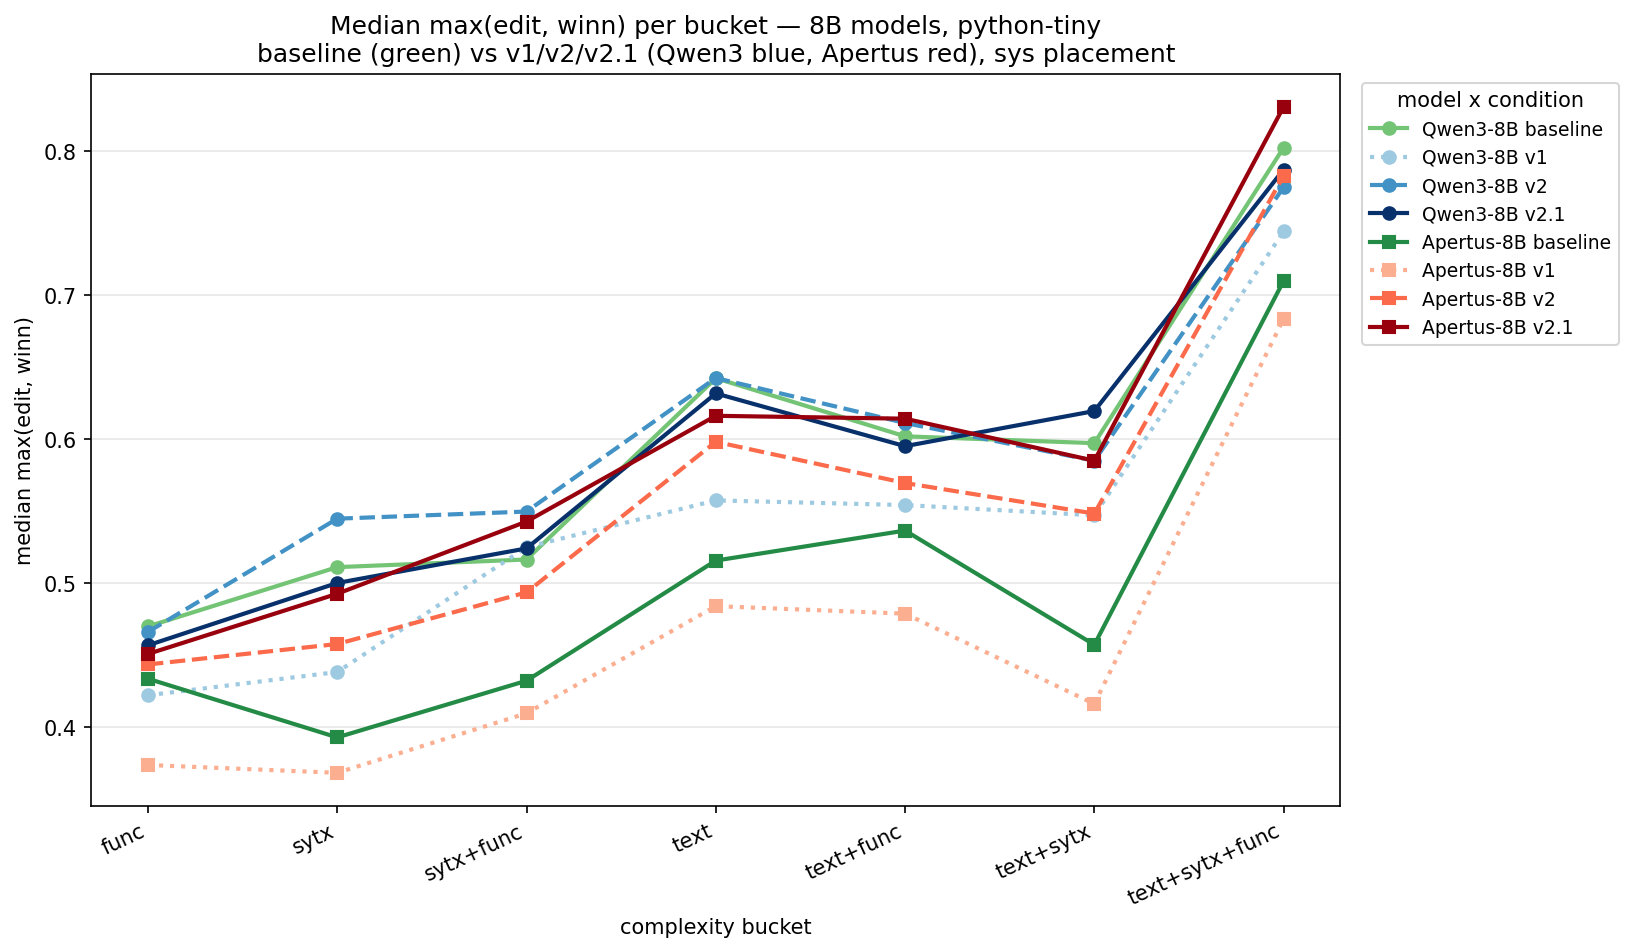
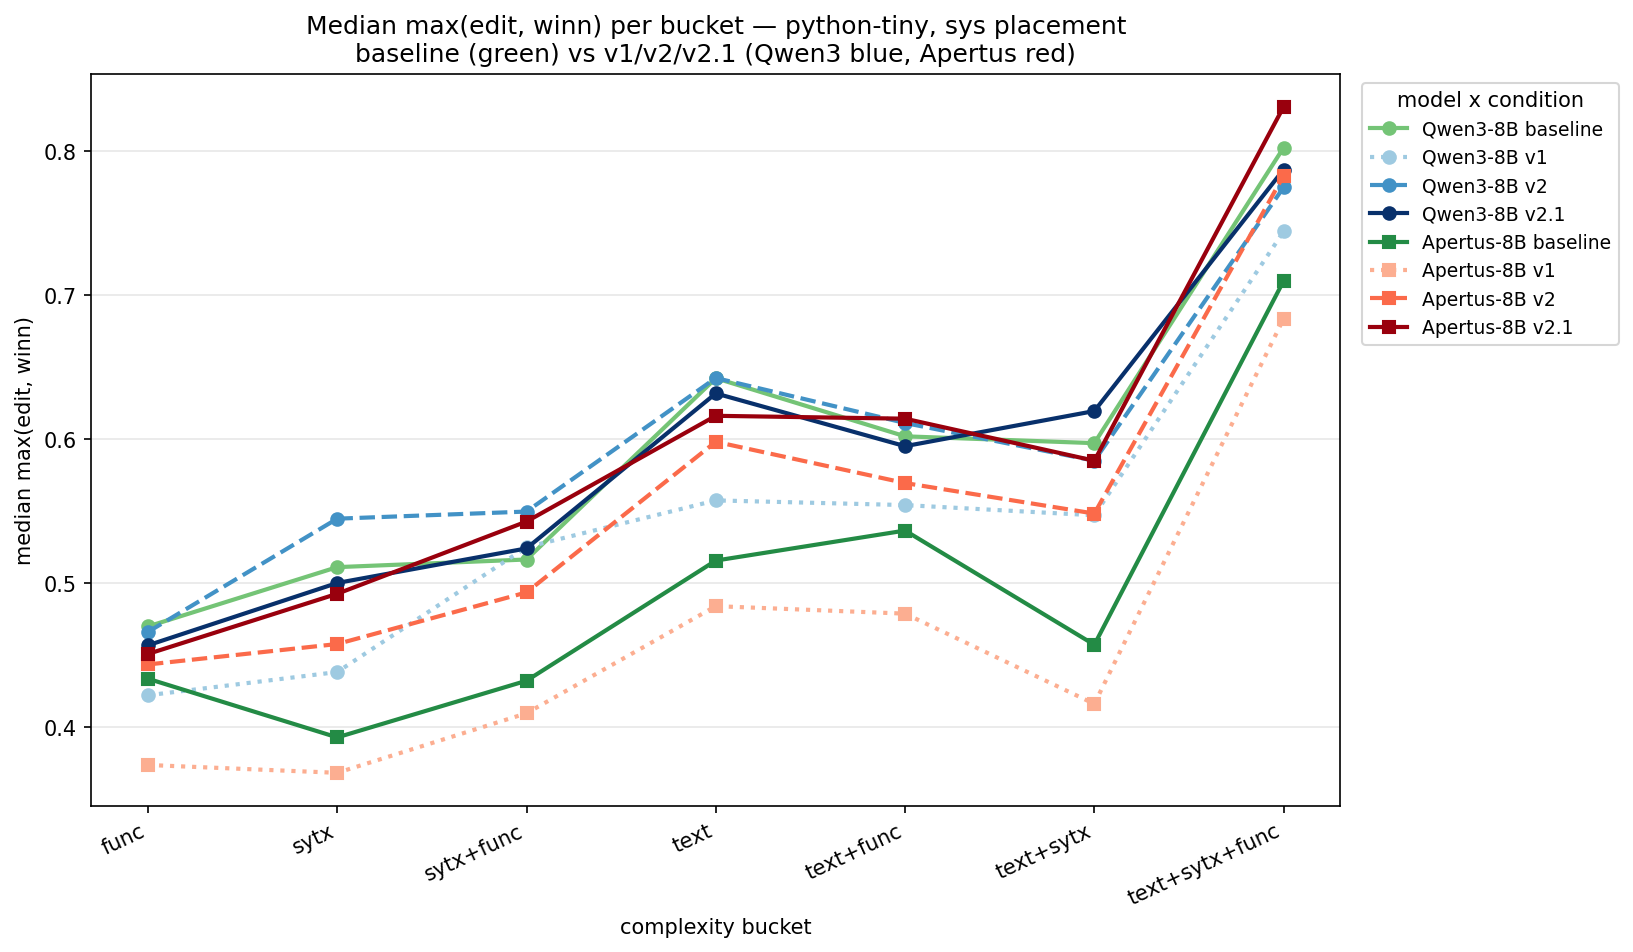
feat(figures): per-model and v2.1-only per-bucket median charts (refs #77)

Changed region(s): [[0.1562, 0.0, 0.7183, 0.0914]]

diff --git a/scripts/plot_median_trends.py b/scripts/plot_median_trends.py
@@ -118,14 +118,18 @@ def build_medians(key: str, placement: str):
 # ── plots ────────────────────────────────────────────────────────────────────
 
 
-def plot_by_bucket(medians, key, title_metric, out_path):
-    """x-axis = buckets; one line per (model x condition) = 8 lines.
+def plot_by_bucket(medians, key, title_metric, out_path, selectors=None,
+                   subtitle="baseline (green) vs v1/v2/v2.1 (Qwen3 blue, Apertus red)"):
+    """x-axis = buckets; one line per (model, condition) in `selectors`.
     Qwen3 = blue shades, Apertus = red shades, baselines = green; line-style
-    encodes version as well."""
+    encodes version as well. `selectors` defaults to all 8 (model x condition)."""
     QWEN_SHADE = {"v1": "#9ecae1", "v2": "#4292c6", "v2.1": "#08306b"}
     APER_SHADE = {"v1": "#fcae91", "v2": "#fb6a4a", "v2.1": "#99000d"}
     BASE_GREEN = {"qwen3": "#74c476", "apertus": "#238b45"}
     LS = {"baseline": "-", "v1": ":", "v2": "--", "v2.1": "-"}
+
+    if selectors is None:
+        selectors = [(m, c) for m in MODEL_COLOR for c in CONDITIONS]
 
     def color(model, cond):
         if cond == "baseline":
@@ -134,18 +138,16 @@ def plot_by_bucket(medians, key, title_metric, out_path):
 
     fig, ax = plt.subplots(figsize=(11, 6.5))
     x = range(len(BUCKETS))
-    for model in MODEL_COLOR:           # qwen3, apertus
-        for cond in CONDITIONS:         # baseline, v1, v2, v2.1
-            ys = [medians[model][cond]["bucket"][b] for b in BUCKETS]
-            ax.plot(x, ys, linestyle=LS[cond], color=color(model, cond),
-                    marker=MODEL_MARKER[model], markersize=6, linewidth=2,
-                    label=f"{MODEL_LABEL[model]} {cond}")
+    for model, cond in selectors:
+        ys = [medians[model][cond]["bucket"][b] for b in BUCKETS]
+        ax.plot(x, ys, linestyle=LS[cond], color=color(model, cond),
+                marker=MODEL_MARKER[model], markersize=6, linewidth=2,
+                label=f"{MODEL_LABEL[model]} {cond}")
     ax.set_xticks(list(x))
     ax.set_xticklabels(BUCKETS, rotation=25, ha="right")
     ax.set_xlabel("complexity bucket")
     ax.set_ylabel(f"median {title_metric}")
-    ax.set_title(f"Median {title_metric} per bucket — 8B models, python-tiny\n"
-                 f"baseline (green) vs v1/v2/v2.1 (Qwen3 blue, Apertus red), sys placement")
+    ax.set_title(f"Median {title_metric} per bucket — python-tiny, sys placement\n{subtitle}")
     ax.grid(True, axis="y", alpha=0.3)
     ax.legend(loc="upper left", bbox_to_anchor=(1.01, 1.0), fontsize=9,
               title="model x condition")
@@ -180,10 +182,26 @@ def main():
 
     for key in args.metrics:
         medians = build_medians(key, args.placement)
+        # full 8-line chart
         plot_by_bucket(medians, key, titles[key],
                        os.path.join(FIG_DIR, f"median_by_bucket_{key}.png"))
+        # Apertus only (baseline + v1/v2/v2.1)
+        plot_by_bucket(medians, key, titles[key],
+                       os.path.join(FIG_DIR, f"median_by_bucket_apertus_{key}.png"),
+                       selectors=[("apertus", c) for c in CONDITIONS],
+                       subtitle="Apertus-8B: baseline (green) vs v1/v2/v2.1 (red shades)")
+        # Qwen3 only (baseline + v1/v2/v2.1)
+        plot_by_bucket(medians, key, titles[key],
+                       os.path.join(FIG_DIR, f"median_by_bucket_qwen3_{key}.png"),
+                       selectors=[("qwen3", c) for c in CONDITIONS],
+                       subtitle="Qwen3-8B: baseline (green) vs v1/v2/v2.1 (blue shades)")
+        # v2.1 only, both models
+        plot_by_bucket(medians, key, titles[key],
+                       os.path.join(FIG_DIR, f"median_by_bucket_v2.1_{key}.png"),
+                       selectors=[("qwen3", "v2.1"), ("apertus", "v2.1")],
+                       subtitle="v2.1 only — Qwen3-8B (blue) vs Apertus-8B (red)")
         write_csv(medians, key, os.path.join(CSV_DIR, f"median_trends_{key}.csv"))
-        print(f"[{key}] wrote median_by_bucket_{key}.png + median_trends_{key}.csv")
+        print(f"[{key}] wrote 4 median_by_bucket figures + median_trends_{key}.csv")
         for model in MODEL_COLOR:
             row = "  ".join(f"{c}={medians[model][c]['overall']:.3f}" for c in CONDITIONS)
             print(f"    {MODEL_LABEL[model]:12} overall: {row}")
